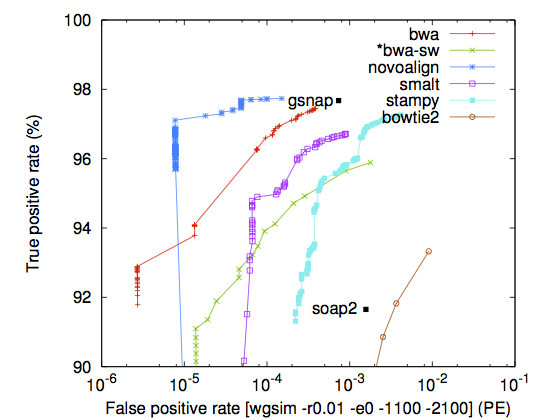
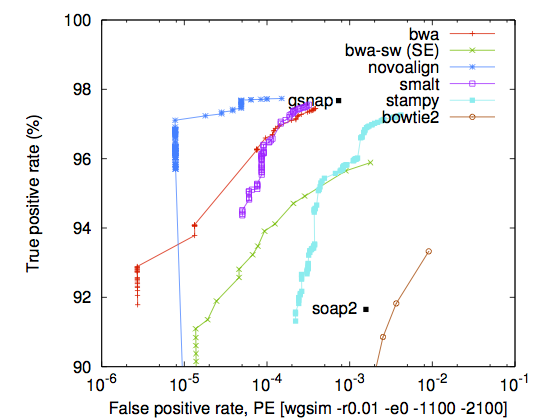
updated smalt

diff --git a/alnROC.html b/alnROC.html
@@ -53,13 +53,13 @@ stampy.py -g hs37m -h hs37m -o r0.stampy.sam -M r0.fq
 
 Paired-end reads are mapped with the following command lines:
 <textarea name="code" class="cpp" cols="60" rows="10">
-bowtie2 -x hs37m  -q -1 r1.fq -2 r2.fq -S r12.bowtie2.sam
+bowtie2 -x hs37m -q -1 r1.fq -2 r2.fq -S r12.bowtie2.sam
 bwa aln hs37m.fa r1.fq > r1.sai && bwa aln hs37m.fa r2.fq > r2.sai \
     && bwa sampe hs37m r1.sai r2.sai r1.fq r2.fq > r12.bwa.sam
 bwa bwasw ../index/bwa/hs37m.fa r12.fq > r12.bwasw.sam
 gsnap -A sam -d hs37m r1.fq r2.fq > r12.gsnap.sam
 novoalign -r Random -o SAM -f r1.fq r2.fq -i 500 50 -d hs37m-k14s3.novo > r12.novo.sam
-smalt map -f samsoft -o r12.smalt-k20s13.sam hs37m-k20s13 r1.fq r2.fq
+smalt map -f samsoft -i 650 -o r12.smalt-k20s13.sam hs37m-k20s13 r1.fq r2.fq
 stampy.py -g hs37m -h hs37m -o r12.stampy.sam -M r1.fq,r2.fq
 soap -D hs37m.fa.index -a r1.fq -b r2.fq -l 32 -g 3 -u dummy -2 dummy -o r12.soap
 </textarea>

diff --git a/inc/sb-main.html b/inc/sb-main.html
@@ -14,6 +14,7 @@
 	<li><a href="biounix.html">UNIX for Bioinformaticians</a>
 	<li><a href="NGSalign.html">NGS Read Alignment</a>
 	<li><a href="NGSalnview.html">NGS Alignment Viewers</a>
+	<li><a href="alnROC.html">ROC for NGS Mappers</a>
 	<li><a href="bioinfo.html">More...</a>
   </ul>
   <h3>Comput. Biology:</h3>
